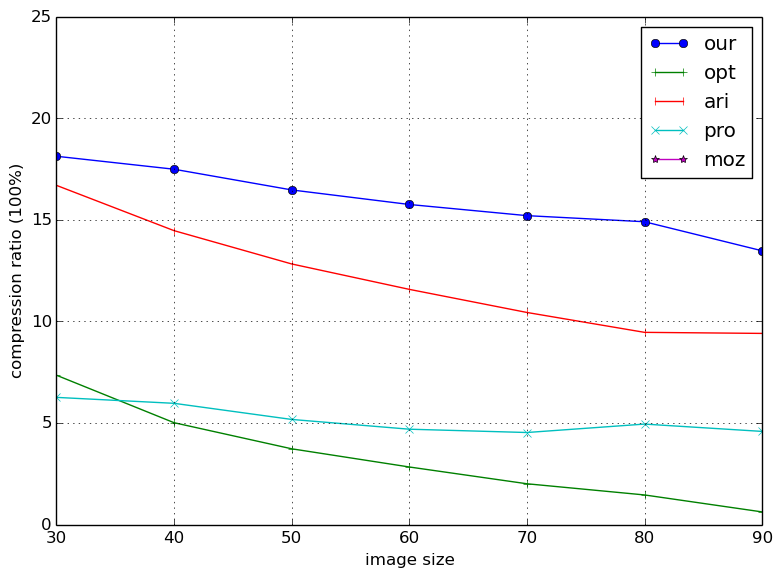
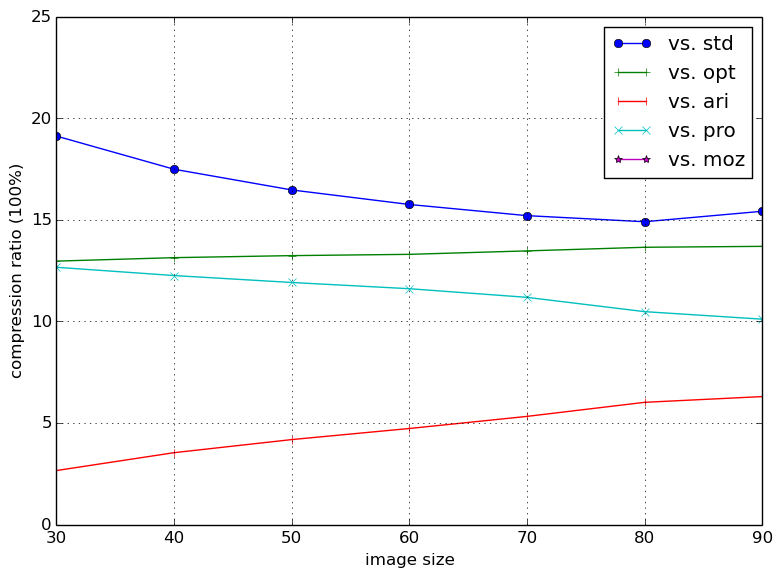
a

diff --git a/result/xing_100/quality/plot_base_std.py b/result/xing_100/quality/plot_base_std.py
@@ -32,11 +32,12 @@ while i < len(ls) and now_f < len(folders):
 		# our 297330, std 346633, opt 314927, ari 287861, pro 329301, moz 314797
 		m = re.match("\t our (.*), std (.*), opt (.*), ari (.*), pro (.*), moz (.*)", l)
 		
-		#our.append(get_ratio(int(m.group(1)), baseline))
-		std.append(get_ratio(int(m.group(1)), int(m.group(2))))
-		opt.append(get_ratio(int(m.group(1)), int(m.group(3))))
-		ari.append(get_ratio(int(m.group(1)), int(m.group(4))))
-		pro.append(get_ratio(int(m.group(1)), int(m.group(5))))
+		baseline = int(m.group(2))
+		our.append(get_ratio(int(m.group(1)), baseline))
+		#std.append(get_ratio(int(m.group(1)), baseline))
+		opt.append(get_ratio(int(m.group(3)), baseline))
+		ari.append(get_ratio(int(m.group(4)), baseline))
+		pro.append(get_ratio(int(m.group(5)), baseline))
 		#moz.append(get_ratio(int(m.group(6)), baseline))
 		now_f += 1
 		break
@@ -45,14 +46,14 @@ print ari
 fig = plt.figure()
 grid()
 ax = fig.add_subplot(111)    # The big subplot
-#ax.plot(our, "-o")
-ax.plot(std, "-o")
+ax.plot(our, "-o")
+#ax.plot(std, "-x")
 ax.plot(opt, "-+")
 ax.plot(ari, "-|")
 ax.plot(pro, "-x")
 ax.plot(moz, "-*")
 ax.set_ylim([0, 25])
-ax.legend(["vs. std", "vs. opt", "vs. ari", "vs. pro", "vs. moz"])
+ax.legend(["our", "opt", "ari", "pro", "moz"])
 ax.set_xlabel("image size")#, fontsize=32)
 ax.set_ylabel("compression ratio (100%)")#, fontsize=32)
 plt.xticks(range(len(folders)), folders)
@@ -60,4 +61,4 @@ plt.xticks(range(len(folders)), folders)
 #plt.tick_params(axis='both', which='minor', labelsize=30)
 plt.tight_layout()
 #fig.savefig("filesize.eps", bbox_inches='tight')
-fig.savefig("quality.png", bbox_inches='tight')
+fig.savefig("quality_std.png", bbox_inches='tight')
